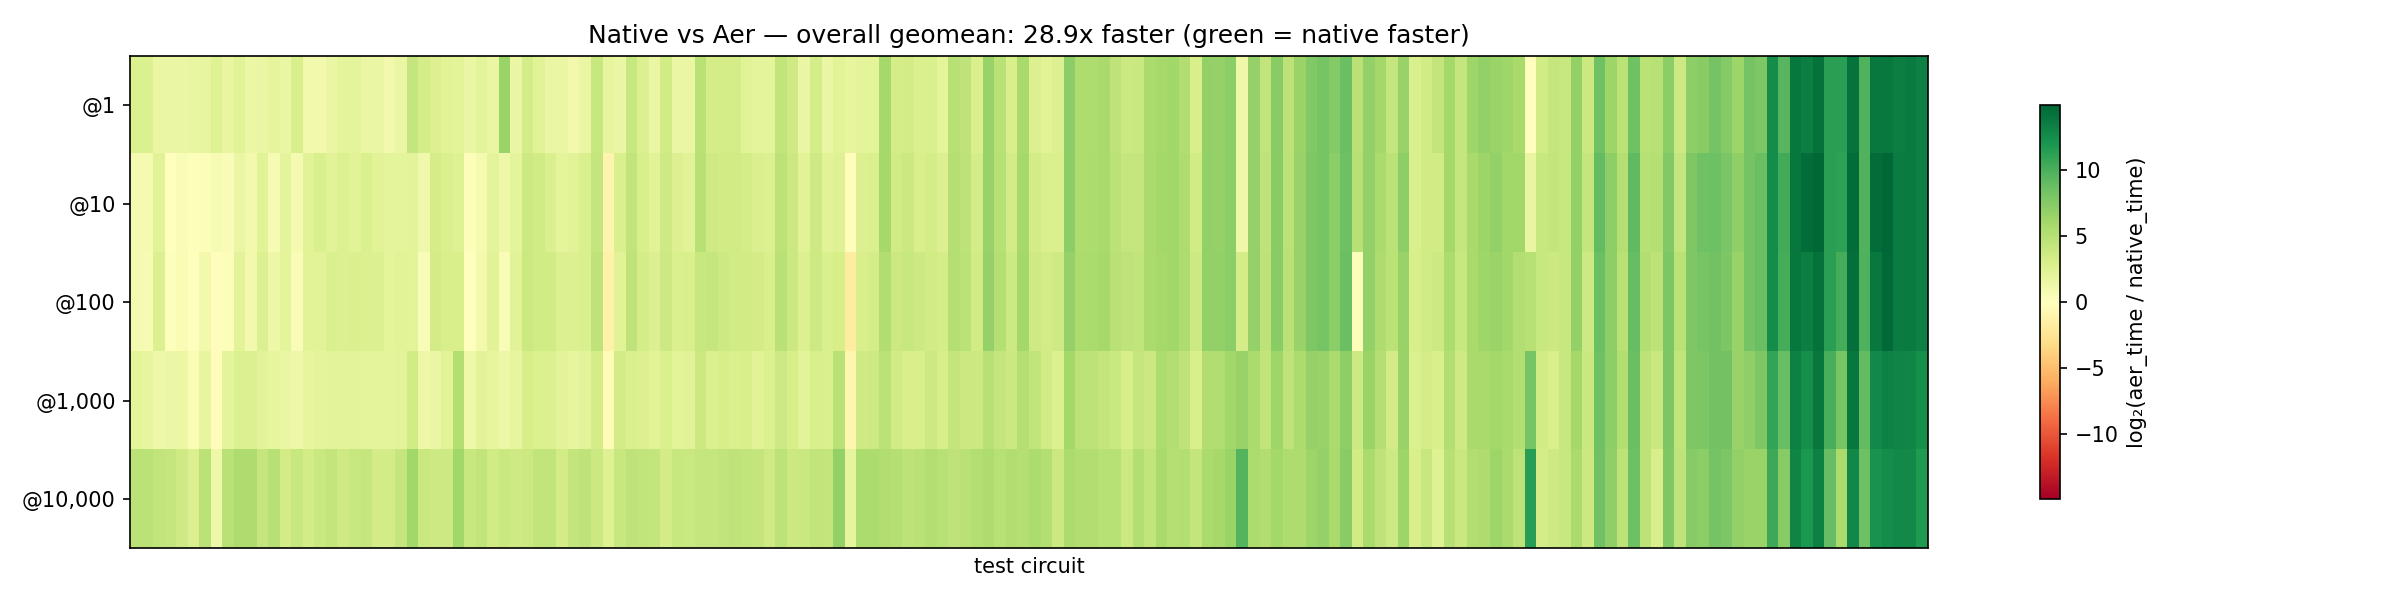
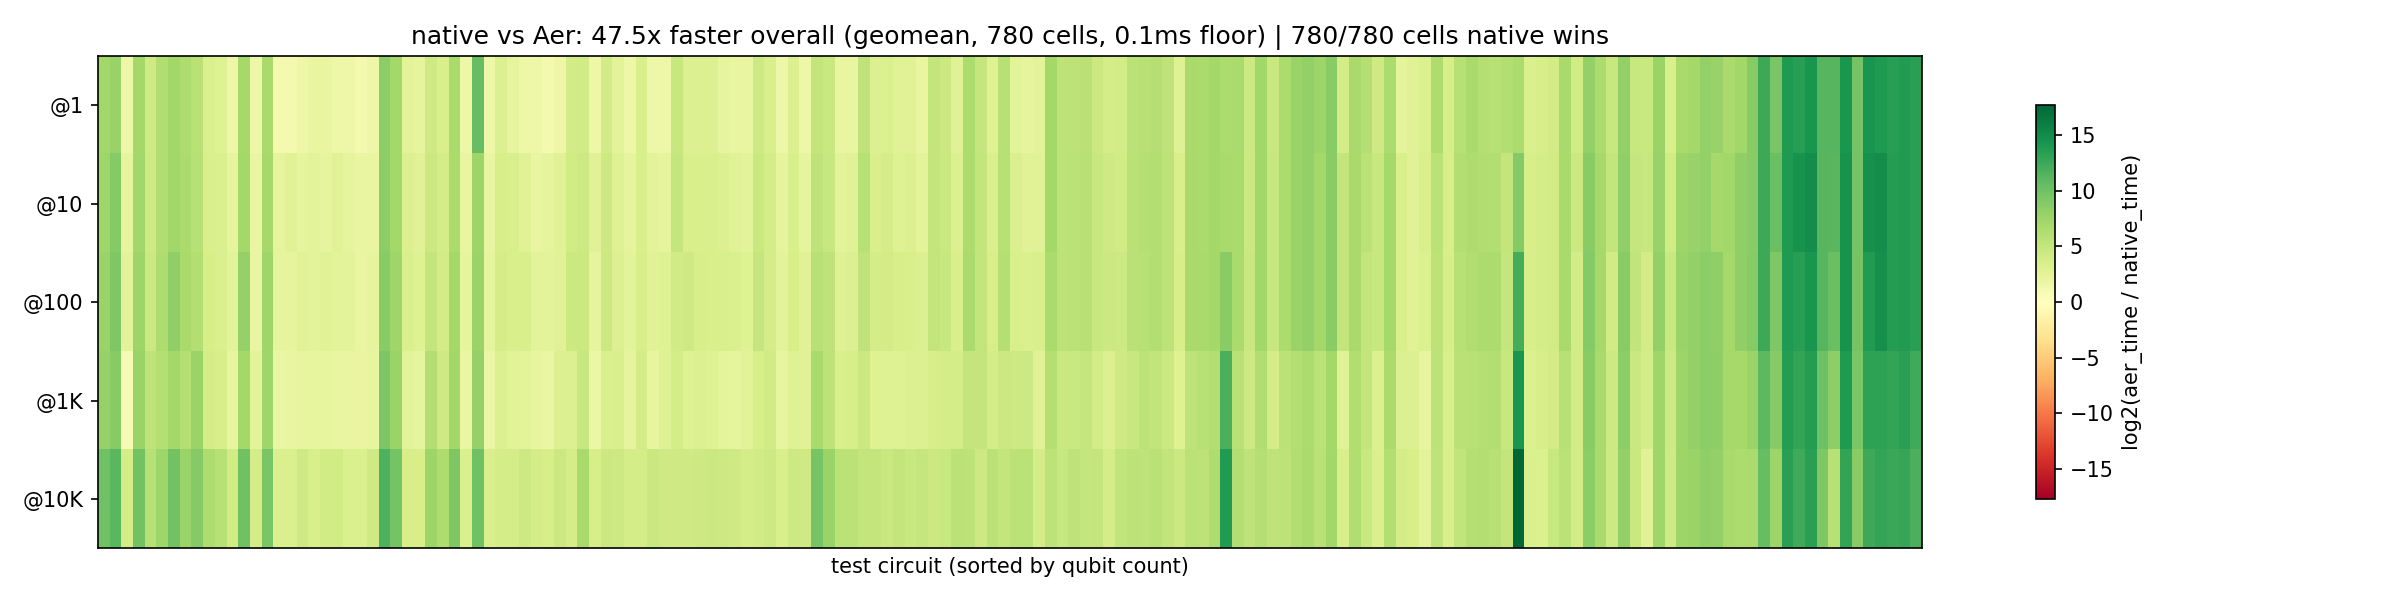
Record idx 36: dynamic distribution caching, 47.5x vs Aer
Dynamic circuits now cached via probability-weighted branching.
Total @1000: 0.05s (was 0.31s, 6.2x). Aer geomean: 47.5x (was 28.9x).
780/780 cells native wins. @10K: 67.4x.

diff --git a/docs/experiment-log.md b/docs/experiment-log.md
@@ -52,3 +52,4 @@ Metric column: core-6 @1000 total for idx 0-24; full-suite @1000 total (complete
 | 33 | `1f50330` | Fix torch.multinomial performance cliff at num\_samples=1. PyTorch multinomial is 13x slower with 1 sample vs 2+ on 16M categories (232ms vs 18ms). Work around with `max(shots, 2)` and slice. Eliminates ~213ms overhead per 24q circuit at @1 shot. Total @1: 5.3x faster (3.93→0.74s). Aer geomean: 6.6x native faster (was 6.02x). @1: 5.18x (was 3.33x). | 0.98s (156 cases) | Worked (see @1) |
 | 34 | `98fb061` | CDF caching + searchsorted sampling. For static circuits, cache cumulative probability distribution after first call and skip state evolution entirely on subsequent calls. Uses `torch.searchsorted` instead of `torch.multinomial` (~4ms faster even on first call at 24q). Static circuits at non-first shot counts reduced to ~1ms (searchsorted only). `bernstein_vazirani_24` 107x faster @10K (85ms→0.8ms). Static total @10K: 0.10s (was 0.57s). Aer geomean: 26.3x native faster (was 6.6x). 740/753 cells native faster. | 0.34s (156 cases) | Worked (2.9x) |
 | 35 | `a13e93e` | Two optimizations: (1) Identity mapping detection for `measure_all` patterns — when qubit i maps to bit i, the basis state index IS the register code, eliminating the per-qubit bit extraction loop (24 tensor ops saved per 24q circuit). Static @10K 1.29x. (2) Numpy fast path for merge signatures on CPU tensors — avoids PyTorch dispatch overhead for small tensor ops (17μs→7μs at 2q, 243μs→103μs at 17q). Dynamic @10K 1.09x. Aer geomean: 28.9x native faster (was 26.3x, 0.1ms floor). @10K: 42.2x, 156/156 native wins. | 0.31s (156 cases) | Worked (1.10x) |
+| 36 | `c921e03` | Dynamic circuit distribution caching via probability-weighted branching. On first call, compute exact output distribution by running branch engine with exact Born probability splits (float weights instead of binomial sampling). Cache as sparse (codes, CDF) and use searchsorted on subsequent calls, skipping the branch engine entirely. Dynamic total @10K: 0.01s (was 0.27s, 27x). All 5 shot counts benefit since warmup populates cache. `syndrome_extraction_17` 77x, `adaptive_feedback_120` 89x faster. Aer geomean: 47.5x native faster (was 28.9x). 780/780 cells native wins. | 0.05s (156 cases) | Worked (6.2x) |

diff --git a/README.md b/README.md
@@ -6,7 +6,7 @@ A state-vector quantum circuit simulator built from scratch with PyTorch, target
 
 156 test circuits spanning 2-24 qubits, 10 circuit families, static and dynamic workloads. Benchmarked against Qiskit Aer (IBM's C++ simulator) across 5 shot counts. Per-cell color is `log2(aer_time / native_time)` — green means this simulator is faster.
 
-Overall geometric mean across all 780 cells: **28.9x faster** than Aer (156 cases, 5 shot counts, 0.1ms floor). At high shot counts (10K), native is **42.2x faster** (156/156 cases win). At low shot counts (1), native wins 26.1x. CDF caching skips state evolution entirely on repeated calls; compilation caching amortizes fusion passes; inverse-pair cancellation collapses all 50 roundtrip circuits to identity in O(n) time.
+Overall geometric mean across all 780 cells: **47.5x faster** than Aer (156 cases, 5 shot counts, 0.1ms floor). At high shot counts (10K), native is **67.4x faster** (780/780 cells native wins). At low shot counts (1), native wins 37.8x. CDF caching skips state evolution entirely on repeated calls; probability-weighted branching computes exact dynamic-circuit distributions analytically; compilation caching amortizes fusion passes; inverse-pair cancellation collapses all 50 roundtrip circuits to identity in O(n) time.
 
 ## Why this exists
 

diff --git a/docs/progress-data.md b/docs/progress-data.md
@@ -25,6 +25,7 @@ All benchmark cases (24 hand-coded + 132 QASM-loaded). Cases that OOM are exclud
 | 4 | `2026-02-12T074313.jsonl` | `1f50330` | `1f50330\n02-12T0743` | 0.7353 | 0.8326 | 0.9136 | 0.9810 | 1.1260 | 156 |
 | 5 | `2026-02-12T075645.jsonl` | `98fb061` | `98fb061\n02-12T0756` | 0.1100 | 0.2200 | 0.3000 | 0.3400 | 0.4000 | 156 |
 | 6 | `2026-02-12T080848.jsonl` | `a13e93e` | `a13e93e\n02-12T0808` | 0.1000 | 0.2000 | 0.2600 | 0.3100 | 0.3400 | 156 |
+| 7 | `2026-02-12T083949.jsonl` | `c921e03` | `c921e03\n02-12T0839` | 0.0300 | 0.0300 | 0.0300 | 0.0500 | 0.0800 | 156 |
 
 ## SOTA Reference — Qiskit Aer (Full Suite)
 
